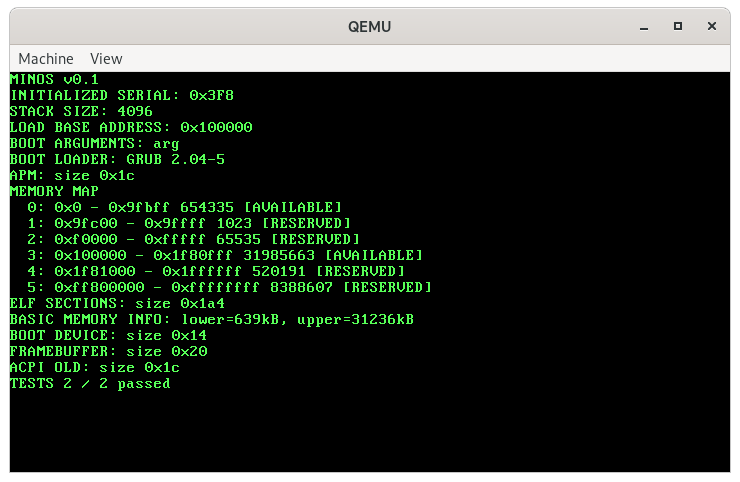
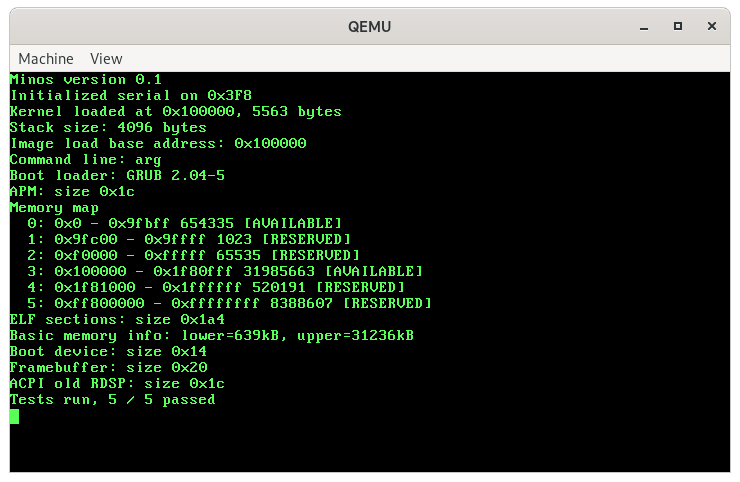
Updated console messages

Changed region(s): [[0.0, 0.1556, 0.5905, 0.9025], [0.3419, 0.2178, 0.4662, 0.249], [0.0311, 0.5602, 0.0622, 0.5913]]

diff --git a/src/boothdr.c b/src/boothdr.c
@@ -41,26 +41,26 @@ void init_mb(size_t magic, size_t addr) {
                                       ((tag->size + 7) & ~7))) {
     switch (tag->type) {
       case MULTIBOOT_TAG_TYPE_CMDLINE:
-        printf("BOOT ARGUMENTS: %s\n", ((struct multiboot_tag_string *) tag)->string);
+        printf("Command line: %s\n", ((struct multiboot_tag_string *) tag)->string);
         break;
 
       case MULTIBOOT_TAG_TYPE_BOOT_LOADER_NAME:
         strncpy(boot_cmdline, ((struct multiboot_tag_string *) tag)->string, BOOT_CMDLINE_MAX);
-        printf("BOOT LOADER: %s\n", boot_cmdline);
+        printf("Boot loader: %s\n", boot_cmdline);
         break;
 
       case MULTIBOOT_TAG_TYPE_MODULE:
-        printf("MODULE: size 0x%x\n", tag->size);
+        printf("Module: size 0x%x\n", tag->size);
         break;
 
       case MULTIBOOT_TAG_TYPE_BASIC_MEMINFO:
         meminfo = (struct multiboot_tag_basic_meminfo *) tag;
         set_basic_meminfo(meminfo->mem_lower, meminfo->mem_upper);
-        printf("BASIC MEMORY INFO: lower=%dkB, upper=%dkB\n", meminfo->mem_lower, meminfo->mem_upper);
+        printf("Basic memory info: lower=%dkB, upper=%dkB\n", meminfo->mem_lower, meminfo->mem_upper);
         break;
 
       case MULTIBOOT_TAG_TYPE_BOOTDEV:
-        printf("BOOT DEVICE: size 0x%x\n", tag->size);
+        printf("Boot device: size 0x%x\n", tag->size);
         break;
 
       case MULTIBOOT_TAG_TYPE_MMAP:
@@ -82,11 +82,11 @@ void init_mb(size_t magic, size_t addr) {
         break;
 
       case MULTIBOOT_TAG_TYPE_FRAMEBUFFER:
-        printf("FRAMEBUFFER: size 0x%x\n", tag->size);
+        printf("Framebuffer: size 0x%x\n", tag->size);
         break;
 
       case MULTIBOOT_TAG_TYPE_ELF_SECTIONS:
-        printf("ELF SECTIONS: size 0x%x\n", tag->size);
+        printf("ELF sections: size 0x%x\n", tag->size);
         break;
 
       case MULTIBOOT_TAG_TYPE_APM:
@@ -94,11 +94,11 @@ void init_mb(size_t magic, size_t addr) {
         break;
 
       case MULTIBOOT_TAG_TYPE_EFI32:
-        printf("EFI32: size 0x%x\n", tag->size);
+        printf("EFI 32-bit system table pointer: size 0x%x\n", tag->size);
         break;
 
       case MULTIBOOT_TAG_TYPE_EFI64:
-        printf("EFI64: size 0x%x\n", tag->size);
+        printf("EFI 64-bit system table pointer: size 0x%x\n", tag->size);
         break;
 
       case MULTIBOOT_TAG_TYPE_SMBIOS:
@@ -106,35 +106,35 @@ void init_mb(size_t magic, size_t addr) {
         break;
 
       case MULTIBOOT_TAG_TYPE_ACPI_OLD:
-        printf("ACPI OLD: size 0x%x\n", tag->size);
+        printf("ACPI old RDSP: size 0x%x\n", tag->size);
         break;
 
       case MULTIBOOT_TAG_TYPE_ACPI_NEW:
-        printf("ACPI NEW: size 0x%x\n", tag->size);
+        printf("ACPI new RDSP: size 0x%x\n", tag->size);
         break;
 
       case MULTIBOOT_TAG_TYPE_NETWORK:
-        printf("NETWORK: size 0x%x\n", tag->size);
+        printf("Network: size 0x%x\n", tag->size);
         break;
 
       case MULTIBOOT_TAG_TYPE_EFI_MMAP:
-        printf("EFI MMAP: size 0x%x\n", tag->size);
+        printf("EFI memory map: size 0x%x\n", tag->size);
         break;
 
       case MULTIBOOT_TAG_TYPE_EFI_BS:
-        printf("EFI BS: size 0x%x\n", tag->size);
+        printf("EFI boot services not terminated: size 0x%x\n", tag->size);
         break;
 
       case MULTIBOOT_TAG_TYPE_EFI32_IH:
-        printf("EFI32 IH: size 0x%x\n", tag->size);
+        printf("EFI 32-bit image handle pointer: size 0x%x\n", tag->size);
         break;
 
       case MULTIBOOT_TAG_TYPE_EFI64_IH:
-        printf("EFI64 IH: size 0x%x\n", tag->size);
+        printf("EFI 64-bit image handle pointer: size 0x%x\n", tag->size);
         break;
 
       case MULTIBOOT_TAG_TYPE_LOAD_BASE_ADDR:
-        printf("LOAD BASE ADDRESS: 0x%x\n",
+        printf("Image load base address: 0x%x\n",
             ((struct multiboot_tag_load_base_addr *) tag)->load_base_addr);
         break;
     }

diff --git a/src/kernel.c b/src/kernel.c
@@ -27,8 +27,8 @@
 #include "test.h"
 #endif
 
-extern size_t kernel_begin;
-extern size_t kernel_end;
+extern uintptr_t kernel_begin;
+extern uintptr_t kernel_end;
 
 /*
  * The entry point into the kernel
@@ -39,14 +39,14 @@ void kernel_main(size_t magic, size_t addr) {
 #ifdef CONFIG_SERIAL
   // Initialize serial port for communication
   init_serial();
-  printf("MINOS %s\n", CONFIG_VERSION);
-  printf("INITIALIZED SERIAL: %s\n", STRINGIFY(CONFIG_SERIAL));
+  printf("Minos version %s\n", CONFIG_VERSION);
+  printf("Initialized serial on %s\n", STRINGIFY(CONFIG_SERIAL));
 #else
-  printf("MINOS %s\n", CONFIG_VERSION);
+  printf("Minos version %s\n", CONFIG_VERSION);
 #endif
 
-  printf("KERNEL: size=%d start=0x%x end=0x%x\n", &kernel_end - &kernel_begin, &kernel_begin, &kernel_end);
-  printf("STACK SIZE: %d\n", CONFIG_STACK);
+  printf("Kernel loaded at 0x%x, %d bytes\n", &kernel_begin, &kernel_end - &kernel_begin);
+  printf("Stack size: %d bytes\n", CONFIG_STACK);
 
   init_mb(magic, addr);
 

diff --git a/src/test.c b/src/test.c
@@ -23,7 +23,7 @@ static int tests_passed;
 static int tests_failed;
 
 static void fail(const char *test, const char *str) {
-  printf("TEST FAIL %s: %s\n", test, str);
+  printf("Test %s failed: %s\n", test, str);
 }
 
 static int memcpy_1() {
@@ -35,7 +35,7 @@ static int memcpy_1() {
   char str5[5] = { 'p', 'p', 'p', 'p', 'p' };
   void *p;
 
-  p = memcpy(str1, str2, 5);
+  p = memcpy(str1, str2, 4);
   if (strnlen(str1, 5) != 3) {
     fail(__FUNCTION__, "string length doesn't match, expected 3");
     ret = 1;
@@ -167,6 +167,6 @@ void run_tests() {
   run(multiboot2_magic_1);
 #endif
 
-  printf("TESTS %d / %d passed\n", tests_passed, tests_passed+tests_failed);
+  printf("Tests run, %d / %d passed\n", tests_passed, tests_passed+tests_failed);
 }
 

diff --git a/src/memory.c b/src/memory.c
@@ -61,7 +61,7 @@ static char *mem_reg_lookup(int type) {
 }
 
 void print_mem_regions() {
-  printf("MEMORY MAP\n");
+  printf("Memory map\n");
   for (int idx = 0; idx <= num_regions; idx++) {
     memory_region_t mem_reg = get_mem_region(idx);
     printf("  %d: 0x%x - 0x%x %d [%s]\n",

diff --git a/src/kernel.h b/src/kernel.h
@@ -22,7 +22,7 @@
 
 #define STRINGIFY2(ver) #ver
 #define STRINGIFY(ver) STRINGIFY2(ver)
-#define CONFIG_VERSION "v" STRINGIFY(CONFIG_VERSION_MAJOR) "." \
+#define CONFIG_VERSION STRINGIFY(CONFIG_VERSION_MAJOR) "." \
   STRINGIFY(CONFIG_VERSION_MINOR)
 
 #endif
